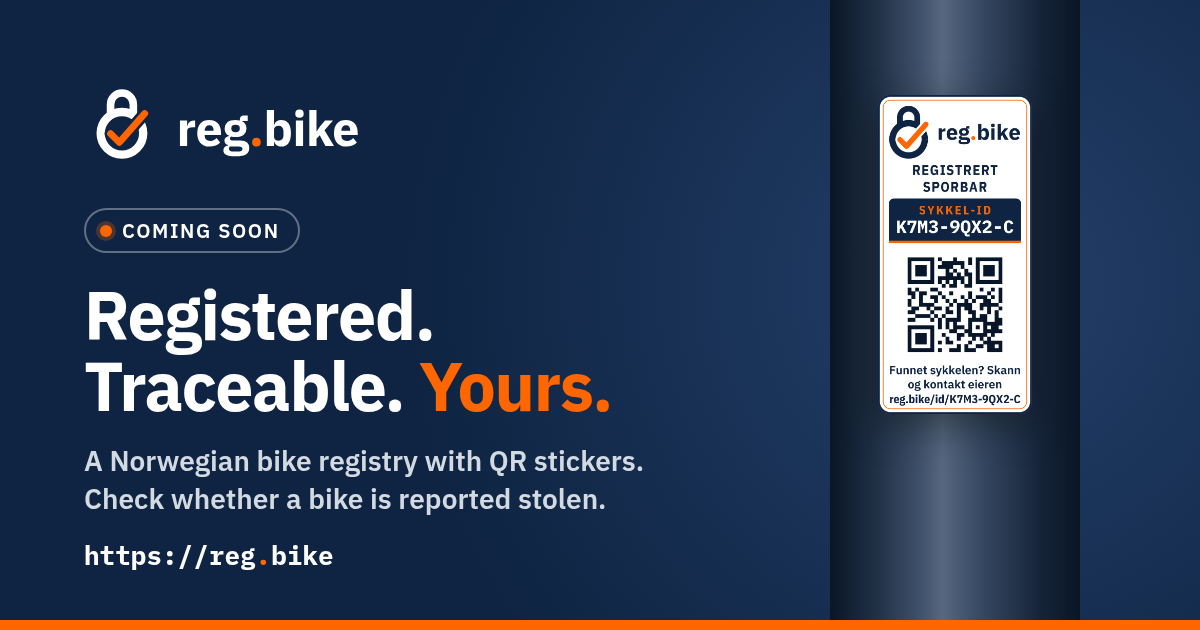
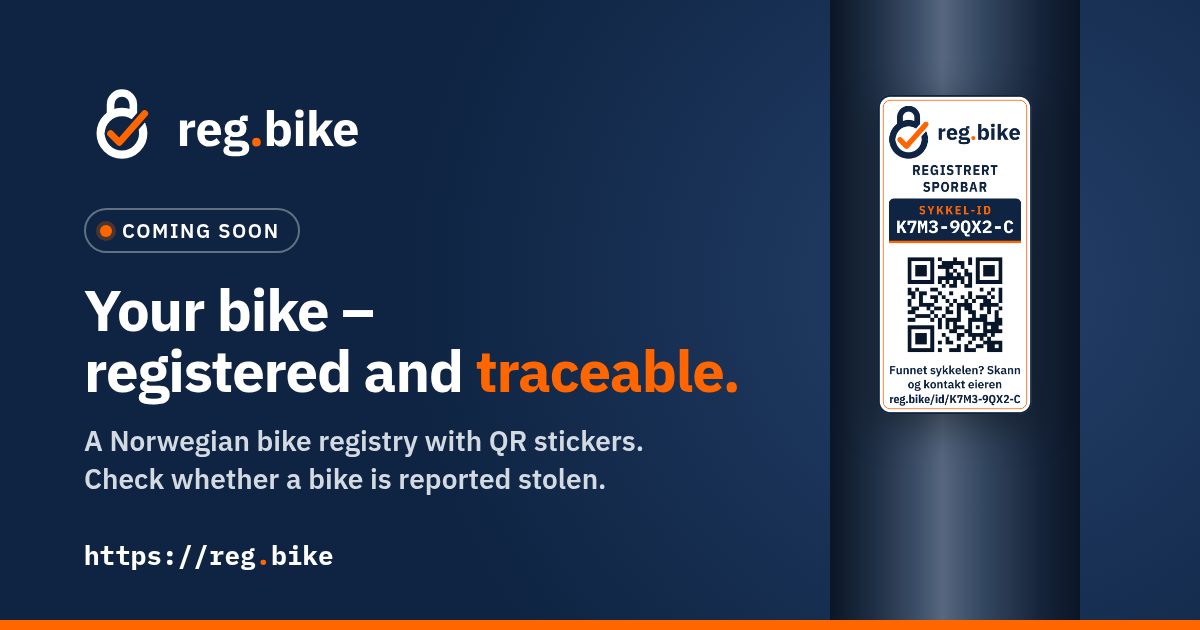
New tagline: Din sykkel – registrert og sporbar. (hero, OG/Twitter, OG images)

Changed region(s): [[0.0617, 0.4524, 0.6167, 0.8143]]

diff --git a/en/index.html b/en/index.html
@@ -14,7 +14,7 @@
 <meta property="og:type" content="website">
 <meta property="og:site_name" content="reg.bike">
 <meta property="og:url" content="https://reg.bike/en/">
-<meta property="og:title" content="reg.bike – Registered. Traceable. Yours.">
+<meta property="og:title" content="reg.bike · Your bike – registered and traceable.">
 <meta property="og:description" content="Register your bike&#x27;s frame number and get a unique QR sticker. Anyone who finds your bike or wants to buy it can check whether it is registered or reported stolen. Coming soon.">
 <meta property="og:locale" content="en_GB">
 <meta property="og:locale:alternate" content="nb_NO">
@@ -22,12 +22,12 @@
 <meta property="og:image:type" content="image/png">
 <meta property="og:image:width" content="1200">
 <meta property="og:image:height" content="630">
-<meta property="og:image:alt" content="reg.bike logo and a QR bike sticker with the words “Registered. Traceable. Yours.”">
+<meta property="og:image:alt" content="reg.bike logo and a QR bike sticker with the words “Your bike – registered and traceable.”">
 <meta name="twitter:card" content="summary_large_image">
-<meta name="twitter:title" content="reg.bike – Registered. Traceable. Yours.">
+<meta name="twitter:title" content="reg.bike · Your bike – registered and traceable.">
 <meta name="twitter:description" content="Register your bike&#x27;s frame number and get a unique QR sticker. Anyone who finds your bike or wants to buy it can check whether it is registered or reported stolen. Coming soon.">
 <meta name="twitter:image" content="https://reg.bike/og-image-en.png">
-<meta name="twitter:image:alt" content="reg.bike logo and a QR bike sticker with the words “Registered. Traceable. Yours.”">
+<meta name="twitter:image:alt" content="reg.bike logo and a QR bike sticker with the words “Your bike – registered and traceable.”">
 <meta name="theme-color" content="#0E2442">
 <link rel="preload" href="../fonts/IBMPlexSans-Bold.woff2" as="font" type="font/woff2" crossorigin>
 <link rel="stylesheet" href="../style.css">
@@ -58,7 +58,7 @@
   <div class="wrap">
     <div>
       <p class="soon">Coming soon</p>
-      <p class="slogan">Registered. Traceable. Yours.</p>
+      <p class="slogan">Your bike&nbsp;– registered and traceable.</p>
       <h1 id="hero-title">Register your bike. Get it back.</h1>
       <p class="lead">reg.bike is a new Norwegian bike registry. Register the frame number, put a QR sticker on your bike, and let anyone who finds it or is thinking of buying it check in seconds whether it has been reported stolen.</p>
       <div class="actions">

diff --git a/index.html b/index.html
@@ -14,7 +14,7 @@
 <meta property="og:type" content="website">
 <meta property="og:site_name" content="reg.bike">
 <meta property="og:url" content="https://reg.bike/">
-<meta property="og:title" content="reg.bike – Registrert. Sporbar. Din.">
+<meta property="og:title" content="reg.bike · Din sykkel – registrert og sporbar.">
 <meta property="og:description" content="Registrer sykkelen og rammenummeret, og få ditt eget QR-merke. Alle som finner sykkelen eller vil kjøpe den, kan sjekke om den er meldt stjålet. Kommer snart.">
 <meta property="og:locale" content="nb_NO">
 <meta property="og:locale:alternate" content="en_GB">
@@ -22,12 +22,12 @@
 <meta property="og:image:type" content="image/png">
 <meta property="og:image:width" content="1200">
 <meta property="og:image:height" content="630">
-<meta property="og:image:alt" content="reg.bike-logoen og et QR-merke til sykkelen med teksten «Registrert. Sporbar. Din.»">
+<meta property="og:image:alt" content="reg.bike-logoen og et QR-merke til sykkelen med teksten «Din sykkel – registrert og sporbar.»">
 <meta name="twitter:card" content="summary_large_image">
-<meta name="twitter:title" content="reg.bike – Registrert. Sporbar. Din.">
+<meta name="twitter:title" content="reg.bike · Din sykkel – registrert og sporbar.">
 <meta name="twitter:description" content="Registrer sykkelen og rammenummeret, og få ditt eget QR-merke. Alle som finner sykkelen eller vil kjøpe den, kan sjekke om den er meldt stjålet. Kommer snart.">
 <meta name="twitter:image" content="https://reg.bike/og-image.png">
-<meta name="twitter:image:alt" content="reg.bike-logoen og et QR-merke til sykkelen med teksten «Registrert. Sporbar. Din.»">
+<meta name="twitter:image:alt" content="reg.bike-logoen og et QR-merke til sykkelen med teksten «Din sykkel – registrert og sporbar.»">
 <meta name="theme-color" content="#0E2442">
 <link rel="preload" href="fonts/IBMPlexSans-Bold.woff2" as="font" type="font/woff2" crossorigin>
 <link rel="stylesheet" href="style.css">
@@ -58,7 +58,7 @@
   <div class="wrap">
     <div>
       <p class="soon">Kommer snart</p>
-      <p class="slogan">Registrert. Sporbar. Din.</p>
+      <p class="slogan">Din sykkel&nbsp;– registrert og sporbar.</p>
       <h1 id="hero-title">Registrer sykkelen. Få den igjen hvis den blir stjålet.</h1>
       <p class="lead">reg.bike er et nytt norsk sykkelregister. Du registrerer rammenummeret og fester et QR-merke på sykkelen. Da kan alle som finner den eller vil kjøpe den, sjekke på sekunder om den er meldt stjålet.</p>
       <div class="actions">

diff --git a/style.css b/style.css
@@ -45,7 +45,7 @@ p{margin:0 0 1rem}
 .hero .wrap{position:relative;display:grid;grid-template-columns:minmax(0,1.25fr) minmax(0,.75fr);gap:2.5rem;align-items:center;padding-top:4rem;padding-bottom:4.25rem}
 .soon{display:inline-flex;align-items:center;gap:.5rem;margin:0 0 1.1rem;padding:.3rem .8rem .3rem .65rem;border:1px solid rgba(255,255,255,.35);border-radius:999px;font-family:var(--head);font-weight:600;font-size:.85rem;letter-spacing:.06em;text-transform:uppercase;color:#fff}
 .soon::before{content:"";width:.55rem;height:.55rem;border-radius:50%;background:var(--orange);box-shadow:0 0 0 3px rgba(255,102,0,.25)}
-.slogan{font-family:var(--head);font-weight:600;letter-spacing:.1em;text-transform:uppercase;font-size:.9rem;color:var(--orange);margin:0 0 .6rem}
+.slogan{font-family:var(--head);font-weight:600;letter-spacing:.1em;text-wrap:balance;text-transform:uppercase;font-size:.9rem;color:var(--orange);margin:0 0 .6rem}
 .hero h1{color:#fff;font-size:clamp(2.1rem,1.4rem + 3vw,3.4rem);margin:0 0 1.1rem;letter-spacing:-.02em;line-height:1.08}
 .lead{font-size:clamp(1.08rem,1rem + .35vw,1.25rem);color:var(--silver);max-width:36em;margin:0 0 1.8rem}
 .actions{display:flex;flex-wrap:wrap;gap:.75rem}

diff --git a/src/build.py b/src/build.py
@@ -31,13 +31,13 @@ NB = dict(
     og_image=f"{SITE}/og-image.png",
     title="reg.bike – norsk sykkelregister · Kommer snart",
     desc="Registrer sykkelen og rammenummeret, og få ditt eget QR-merke. Alle som finner sykkelen eller vil kjøpe den, kan sjekke om den er meldt stjålet. Kommer snart.",
-    og_title="reg.bike – Registrert. Sporbar. Din.",
-    og_alt="reg.bike-logoen og et QR-merke til sykkelen med teksten «Registrert. Sporbar. Din.»",
+    og_title="reg.bike · Din sykkel – registrert og sporbar.",
+    og_alt="reg.bike-logoen og et QR-merke til sykkelen med teksten «Din sykkel – registrert og sporbar.»",
     skip="Gå til hovedinnholdet", home_label="reg.bike – til forsiden", nav_label="Hovedmeny",
     nav=[("#slik", "Slik fungerer det"), ("#fordeler", "Fordeler"), ("#merket", "Klistremerket"), ("#personvern", "Personvern")],
     other_lang="English", other_lang_code="en", other_href="en/", other_label="Read this page in English",
     nav_cta="Få beskjed",
-    soon="Kommer snart", slogan="Registrert. Sporbar. Din.",
+    soon="Kommer snart", slogan="Din sykkel&nbsp;– registrert og sporbar.",
     h1="Registrer sykkelen. Få den igjen hvis den blir stjålet.",
     lead="reg.bike er et nytt norsk sykkelregister. Du registrerer rammenummeret og fester et QR-merke på sykkelen. Da kan alle som finner den eller vil kjøpe den, sjekke på sekunder om den er meldt stjålet.",
     cta="Få beskjed når vi åpner", cta2="Slik fungerer det",
@@ -84,13 +84,13 @@ EN = dict(
     og_image=f"{SITE}/og-image-en.png",
     title="reg.bike – the Norwegian bike registry · Coming soon",
     desc="Register your bike's frame number and get a unique QR sticker. Anyone who finds your bike or wants to buy it can check whether it is registered or reported stolen. Coming soon.",
-    og_title="reg.bike – Registered. Traceable. Yours.",
-    og_alt="reg.bike logo and a QR bike sticker with the words “Registered. Traceable. Yours.”",
+    og_title="reg.bike · Your bike – registered and traceable.",
+    og_alt="reg.bike logo and a QR bike sticker with the words “Your bike – registered and traceable.”",
     skip="Skip to content", home_label="reg.bike – home", nav_label="Main menu",
     nav=[("#how", "How it works"), ("#benefits", "Benefits"), ("#sticker", "The sticker"), ("#privacy", "Privacy")],
     other_lang="Norsk", other_lang_code="nb", other_href="../", other_label="Les siden på norsk",
     nav_cta="Get notified",
-    soon="Coming soon", slogan="Registered. Traceable. Yours.",
+    soon="Coming soon", slogan="Your bike&nbsp;– registered and traceable.",
     h1="Register your bike. Get it back.",
     lead="reg.bike is a new Norwegian bike registry. Register the frame number, put a QR sticker on your bike, and let anyone who finds it or is thinking of buying it check in seconds whether it has been reported stolen.",
     cta="Tell me when you launch", cta2="How it works",

diff --git a/src/og.py b/src/og.py
@@ -11,11 +11,11 @@ TPL = """<!doctype html><html><head><meta charset="utf-8"><style>
 html,body{margin:0;width:1200px;height:630px;overflow:hidden}
 body{background:#0E2442;color:#fff;font-family:P,sans-serif;position:relative}
 body::before{content:"";position:absolute;inset:0;background:radial-gradient(circle at 82% 45%,rgba(37,64,107,.95),rgba(14,36,66,0) 55%)}
-.l{position:absolute;left:84px;top:86px;width:640px}
+.l{position:absolute;left:84px;top:86px;width:720px}
 .logo{height:76px;display:block}
 .soon{display:inline-flex;align-items:center;gap:10px;margin-top:46px;padding:7px 18px 7px 14px;border:2px solid rgba(255,255,255,.35);border-radius:999px;font-weight:600;font-size:20px;letter-spacing:.08em;text-transform:uppercase}
 .soon::before{content:"";width:12px;height:12px;border-radius:50%;background:#FF6600;box-shadow:0 0 0 4px rgba(255,102,0,.25)}
-h1{font-size:68px;line-height:1.05;margin:26px 0 20px;letter-spacing:-.02em}
+h1{font-size:58px;line-height:1.06;margin:26px 0 20px;letter-spacing:-.02em}
 h1 span{color:#FF6600}
 p{font-size:28px;line-height:1.35;color:#D4DAE2;margin:0}
 .url{position:absolute;left:84px;bottom:58px;font-family:M;font-size:26px;color:#fff}
@@ -31,8 +31,8 @@ p{font-size:28px;line-height:1.35;color:#D4DAE2;margin:0}
 <div class="tube"></div><img class="st" src="img/sticker-portrait-30x60-color@2x.png">
 <div class="bar"></div></body></html>"""
 VARIANTS = {
-  "og-image.png": dict(soon="Kommer snart", h1="Registrert.<br>Sporbar. <span>Din.</span>", p="Norsk sykkelregister med QR-merke.<br>Sjekk om en sykkel er meldt stjålet."),
-  "og-image-en.png": dict(soon="Coming soon", h1="Registered.<br>Traceable. <span>Yours.</span>", p="A Norwegian bike registry with QR stickers.<br>Check whether a bike is reported stolen."),
+  "og-image.png": dict(soon="Kommer snart", h1="Din sykkel –<br>registrert og <span>sporbar.</span>", p="Norsk sykkelregister med QR-merke.<br>Sjekk om en sykkel er meldt stjålet."),
+  "og-image-en.png": dict(soon="Coming soon", h1="Your bike –<br>registered and <span>traceable.</span>", p="A Norwegian bike registry with QR stickers.<br>Check whether a bike is reported stolen."),
 }
 async def main():
     async with async_playwright() as pw:
